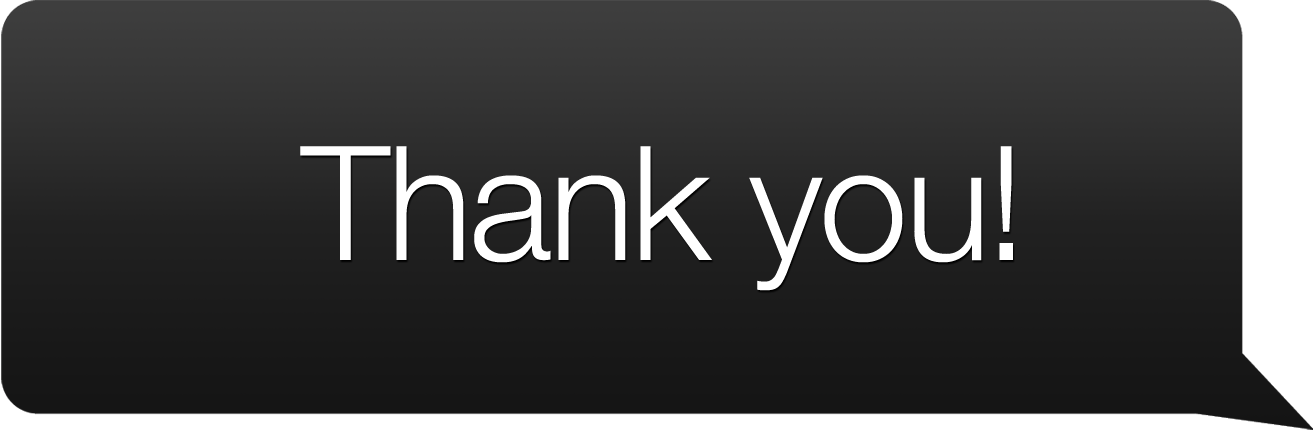
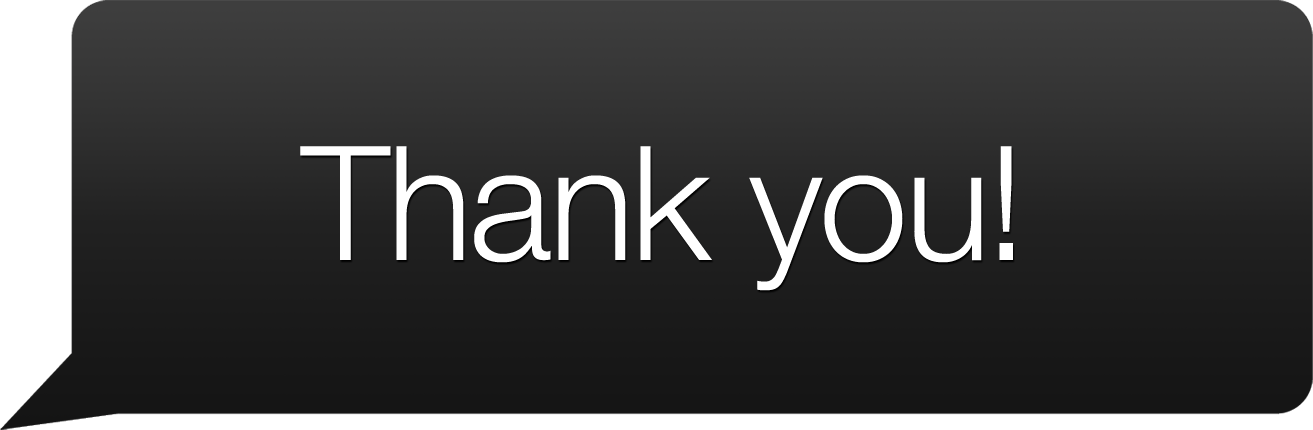
Reverse chat bubbles

Changed region(s): [[0.9056, 0.0, 1.0, 1.0], [0.0, 0.0, 0.0937, 1.0]]

diff --git a/index.html b/index.html
@@ -90,7 +90,7 @@
       </div>
 
       <div class="row">
-        <div class="span6">
+        <div class="span6 clearfix">
           <img src="/img/format.png" alt="Address. Message." class="format" />
         </div>
 

diff --git a/css/main.less b/css/main.less
@@ -83,10 +83,10 @@ header{
         line-height: 28px;
     }
     .format{
+        float: right;
         width: 95%;
     }
     .thanks{
-        float: right;
         width: 95%;
     }
 }
